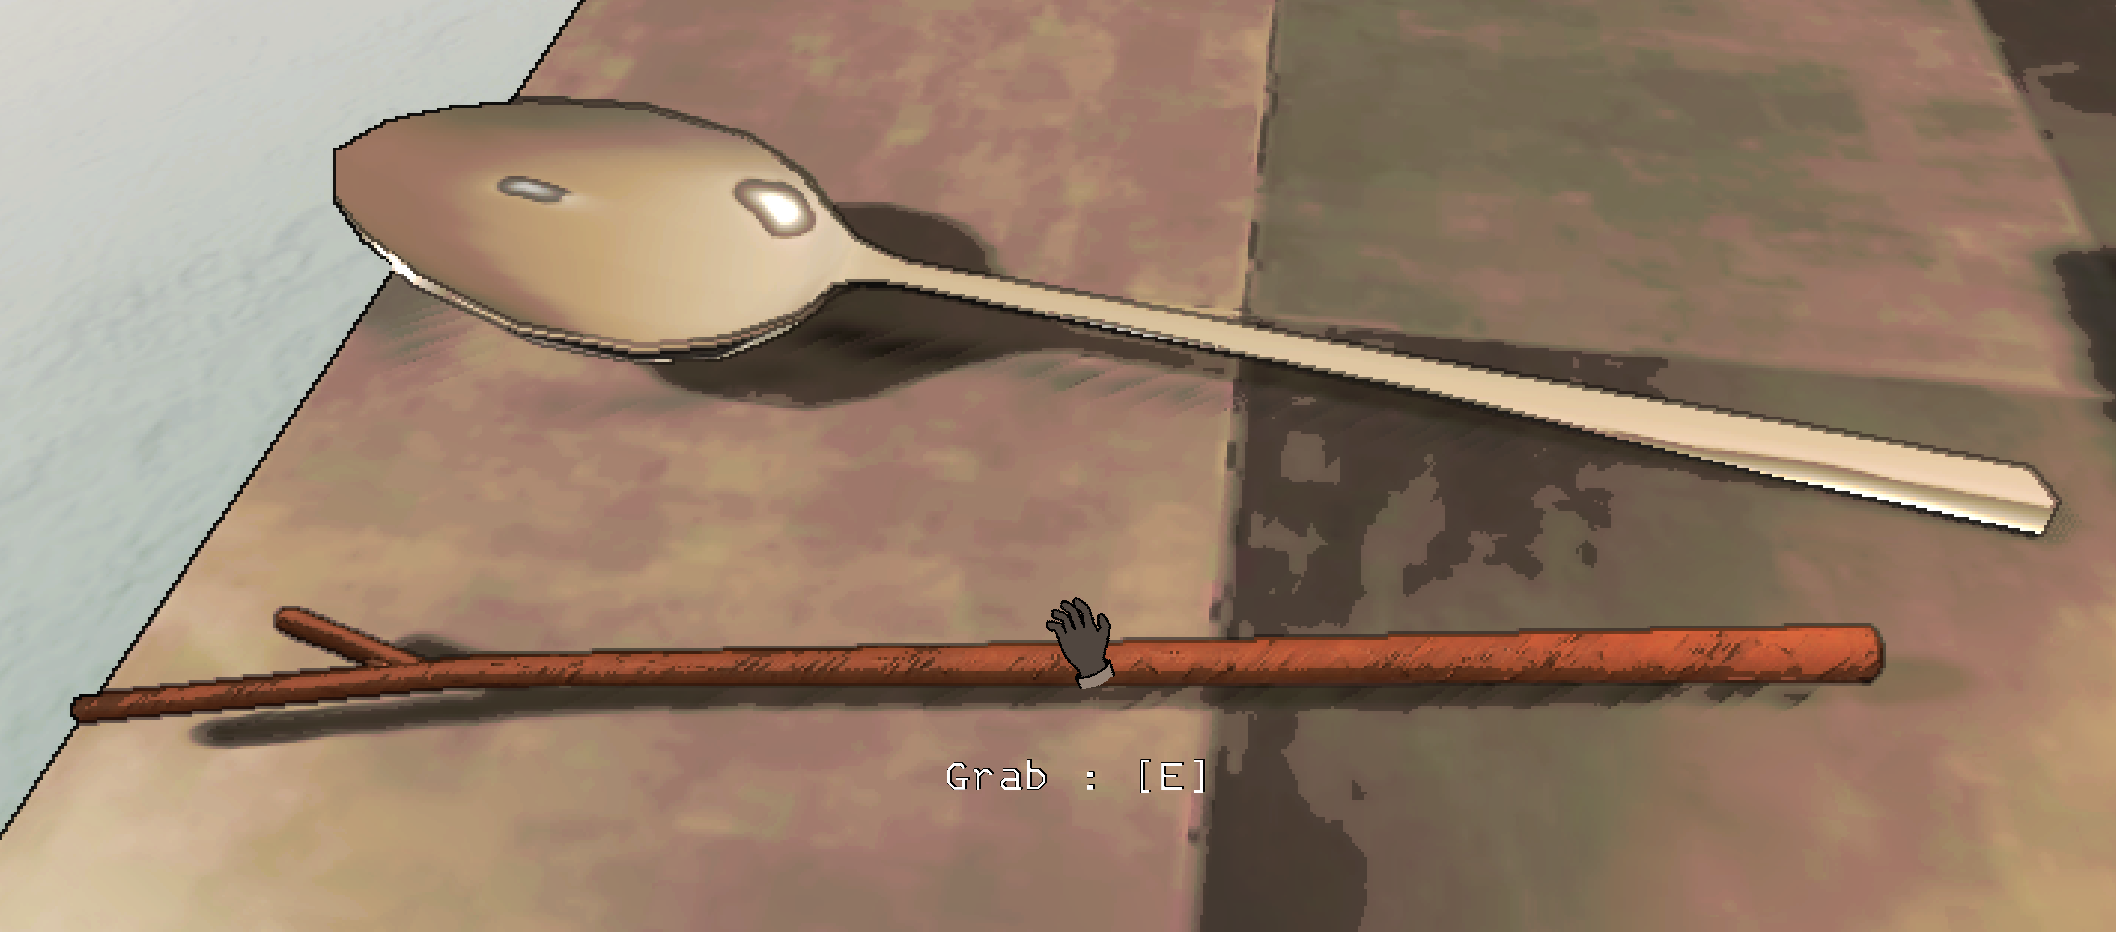
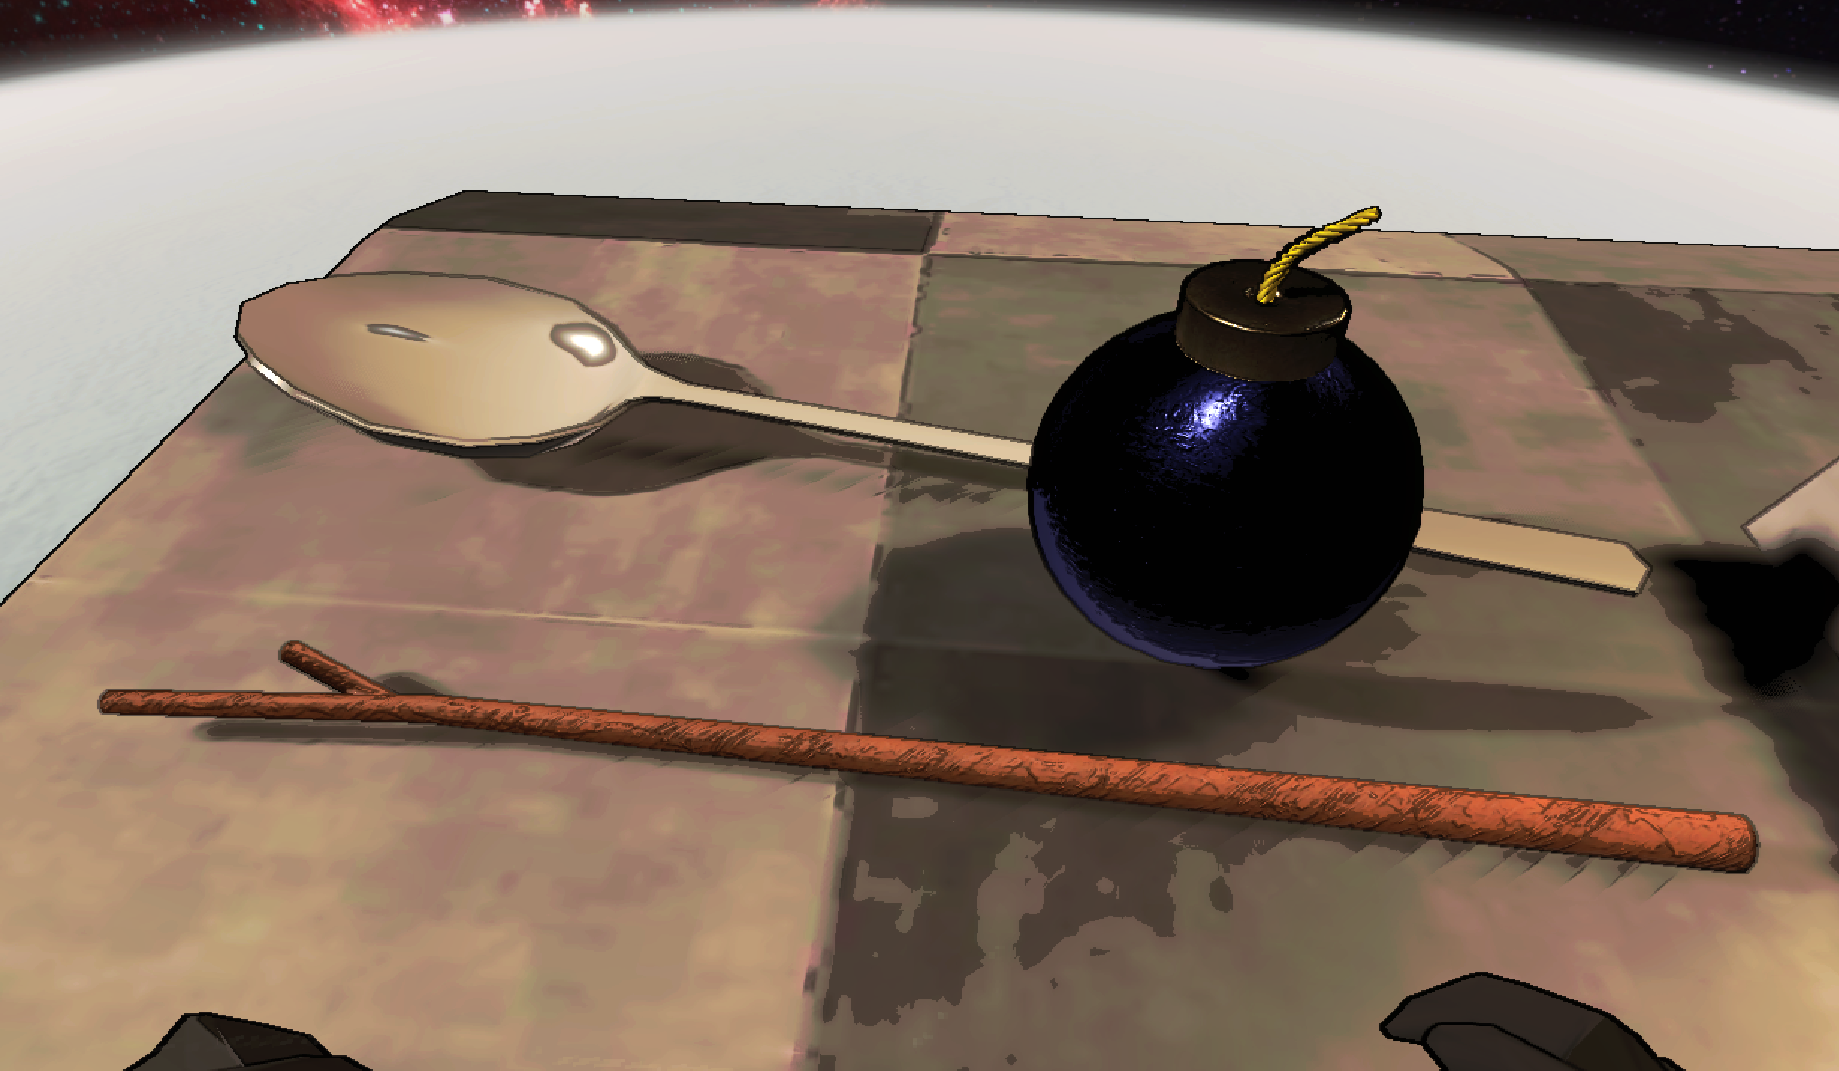
2.0.0 update readme

diff --git a/zigzag.premiumscraps/CHANGELOG.md b/zigzag.premiumscraps/CHANGELOG.md
@@ -17,6 +17,7 @@
     - Fixed Balan Statue glowing rainbow variant having a lower part of the wrong material
     - Fake airhorn audio is now properly assigned to the item for other players (this was already the case for the local player)
     - The friendship ender and Scroll of Town Portal audio are now properly assigned to the item
+    - All items will now spawn with isInFactory flag enabled, this should fix metalic items getting struck by lightning when inside the dungeon
 
 ## 1.9.1
 - **Fixed**

diff --git a/zigzag.premiumscraps/README.md b/zigzag.premiumscraps/README.md
@@ -40,6 +40,7 @@ Compatible with v60/v61/v62/v64 of Lethal Company.
 ### Weapons
 - **Comically Large Spoon**, a classic, does a little more damage than the shovel.
 - The legendary **Stick**, a non-lethal weapon, but you should not use it on your friends...
+- **Bomb**, this explosive object can be used to blow up things. But watch out, it can be unstable.
 
 ![Preview](https://raw.githubusercontent.com/ZigzagAwaka/PremiumScraps/main/Images/premiumscraps-weapons.PNG)
 
